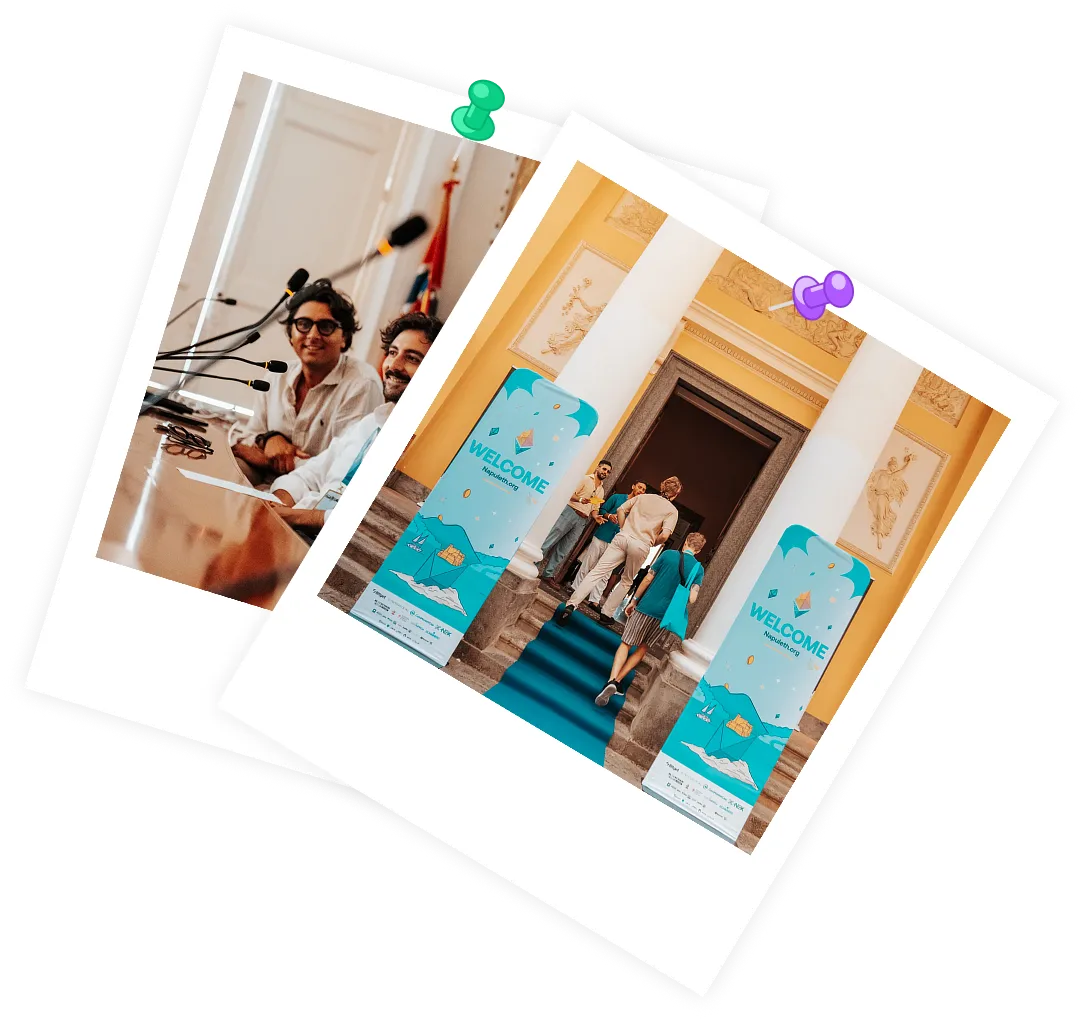
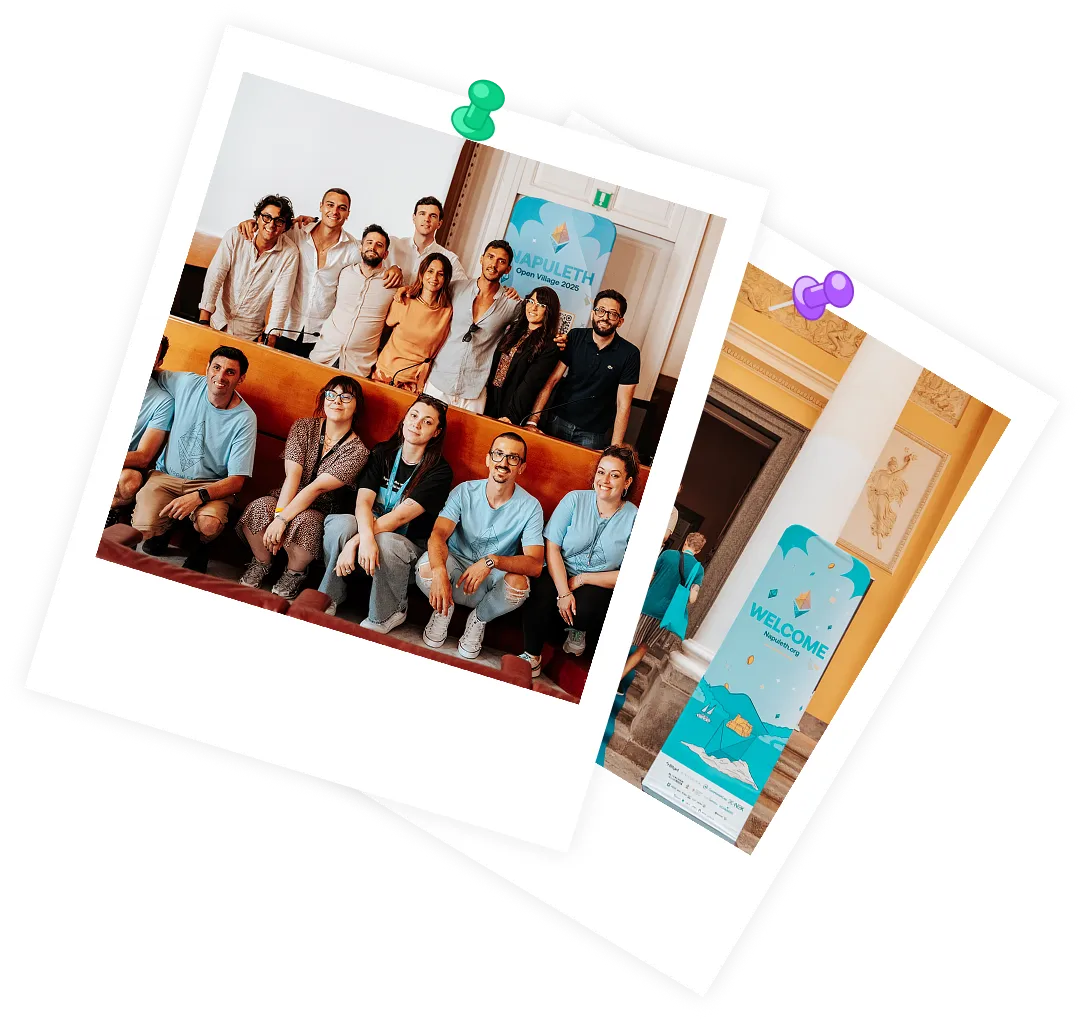
.

Changed region(s): [[0.0913, 0.0607, 0.7002, 0.7583]]

diff --git a/src/app/sections/Hero.tsx b/src/app/sections/Hero.tsx
@@ -21,21 +21,15 @@ const HeroSection = () => {
                     <Typography variant="h3" sx={{
                         textShadow: { xs: `0px 1px 5px ${theme.palette.text.primary}`, lg: `0px 1px 1px ${theme.palette.text.primary}` },
                         color: { xs: theme.palette.background.default, lg: theme.palette.text.primary }
-                    }}>NapulETH</Typography>
+                    }}>NapulETH 2026</Typography>
                     <Typography display={{ xs: 'none', lg: 'block' }} variant="h5" fontWeight={600} sx={{
                         textShadow: { xs: `0px 1px 5px ${theme.palette.text.primary}`, lg: `0px 1px 1px ${theme.palette.text.primary}` },
                         color: { xs: theme.palette.background.default, lg: theme.palette.text.primary }
-                    }}><span style={{ color: theme.palette.ne_darkblue.main }}>17 - 19</span> July, 2025</Typography>
+                    }}><span style={{ color: theme.palette.ne_darkblue.main }}>2026 Edition Loading 🔜</span></Typography>
                     <Typography display={{ xs: 'block', lg: 'none' }} variant="h5" fontWeight={600} sx={{
                         textShadow: { xs: `0px 1px 5px ${theme.palette.text.primary}`, lg: `0px 1px 1px ${theme.palette.text.primary}` },
                         color: { xs: theme.palette.background.default, lg: theme.palette.text.primary }
-                    }}><span style={{ color: theme.palette.ne_gold.main }}>17 - 19</span> July, 2025</Typography>
-                    <Typography variant="h6" sx={{
-                        textShadow: { xs: `0px 1px 5px ${theme.palette.text.primary}`, lg: `0px 1px 1px ${theme.palette.text.primary}` },
-                        color: { xs: theme.palette.background.default, lg: theme.palette.text.primary }
-                    }}>Naples, Italy</Typography>
-                    
-                    
+                    }}><span style={{ color: theme.palette.ne_gold.main }}>2026 Edition Loading 🔜</span></Typography>
                 </Stack>
 
             </Stack>
